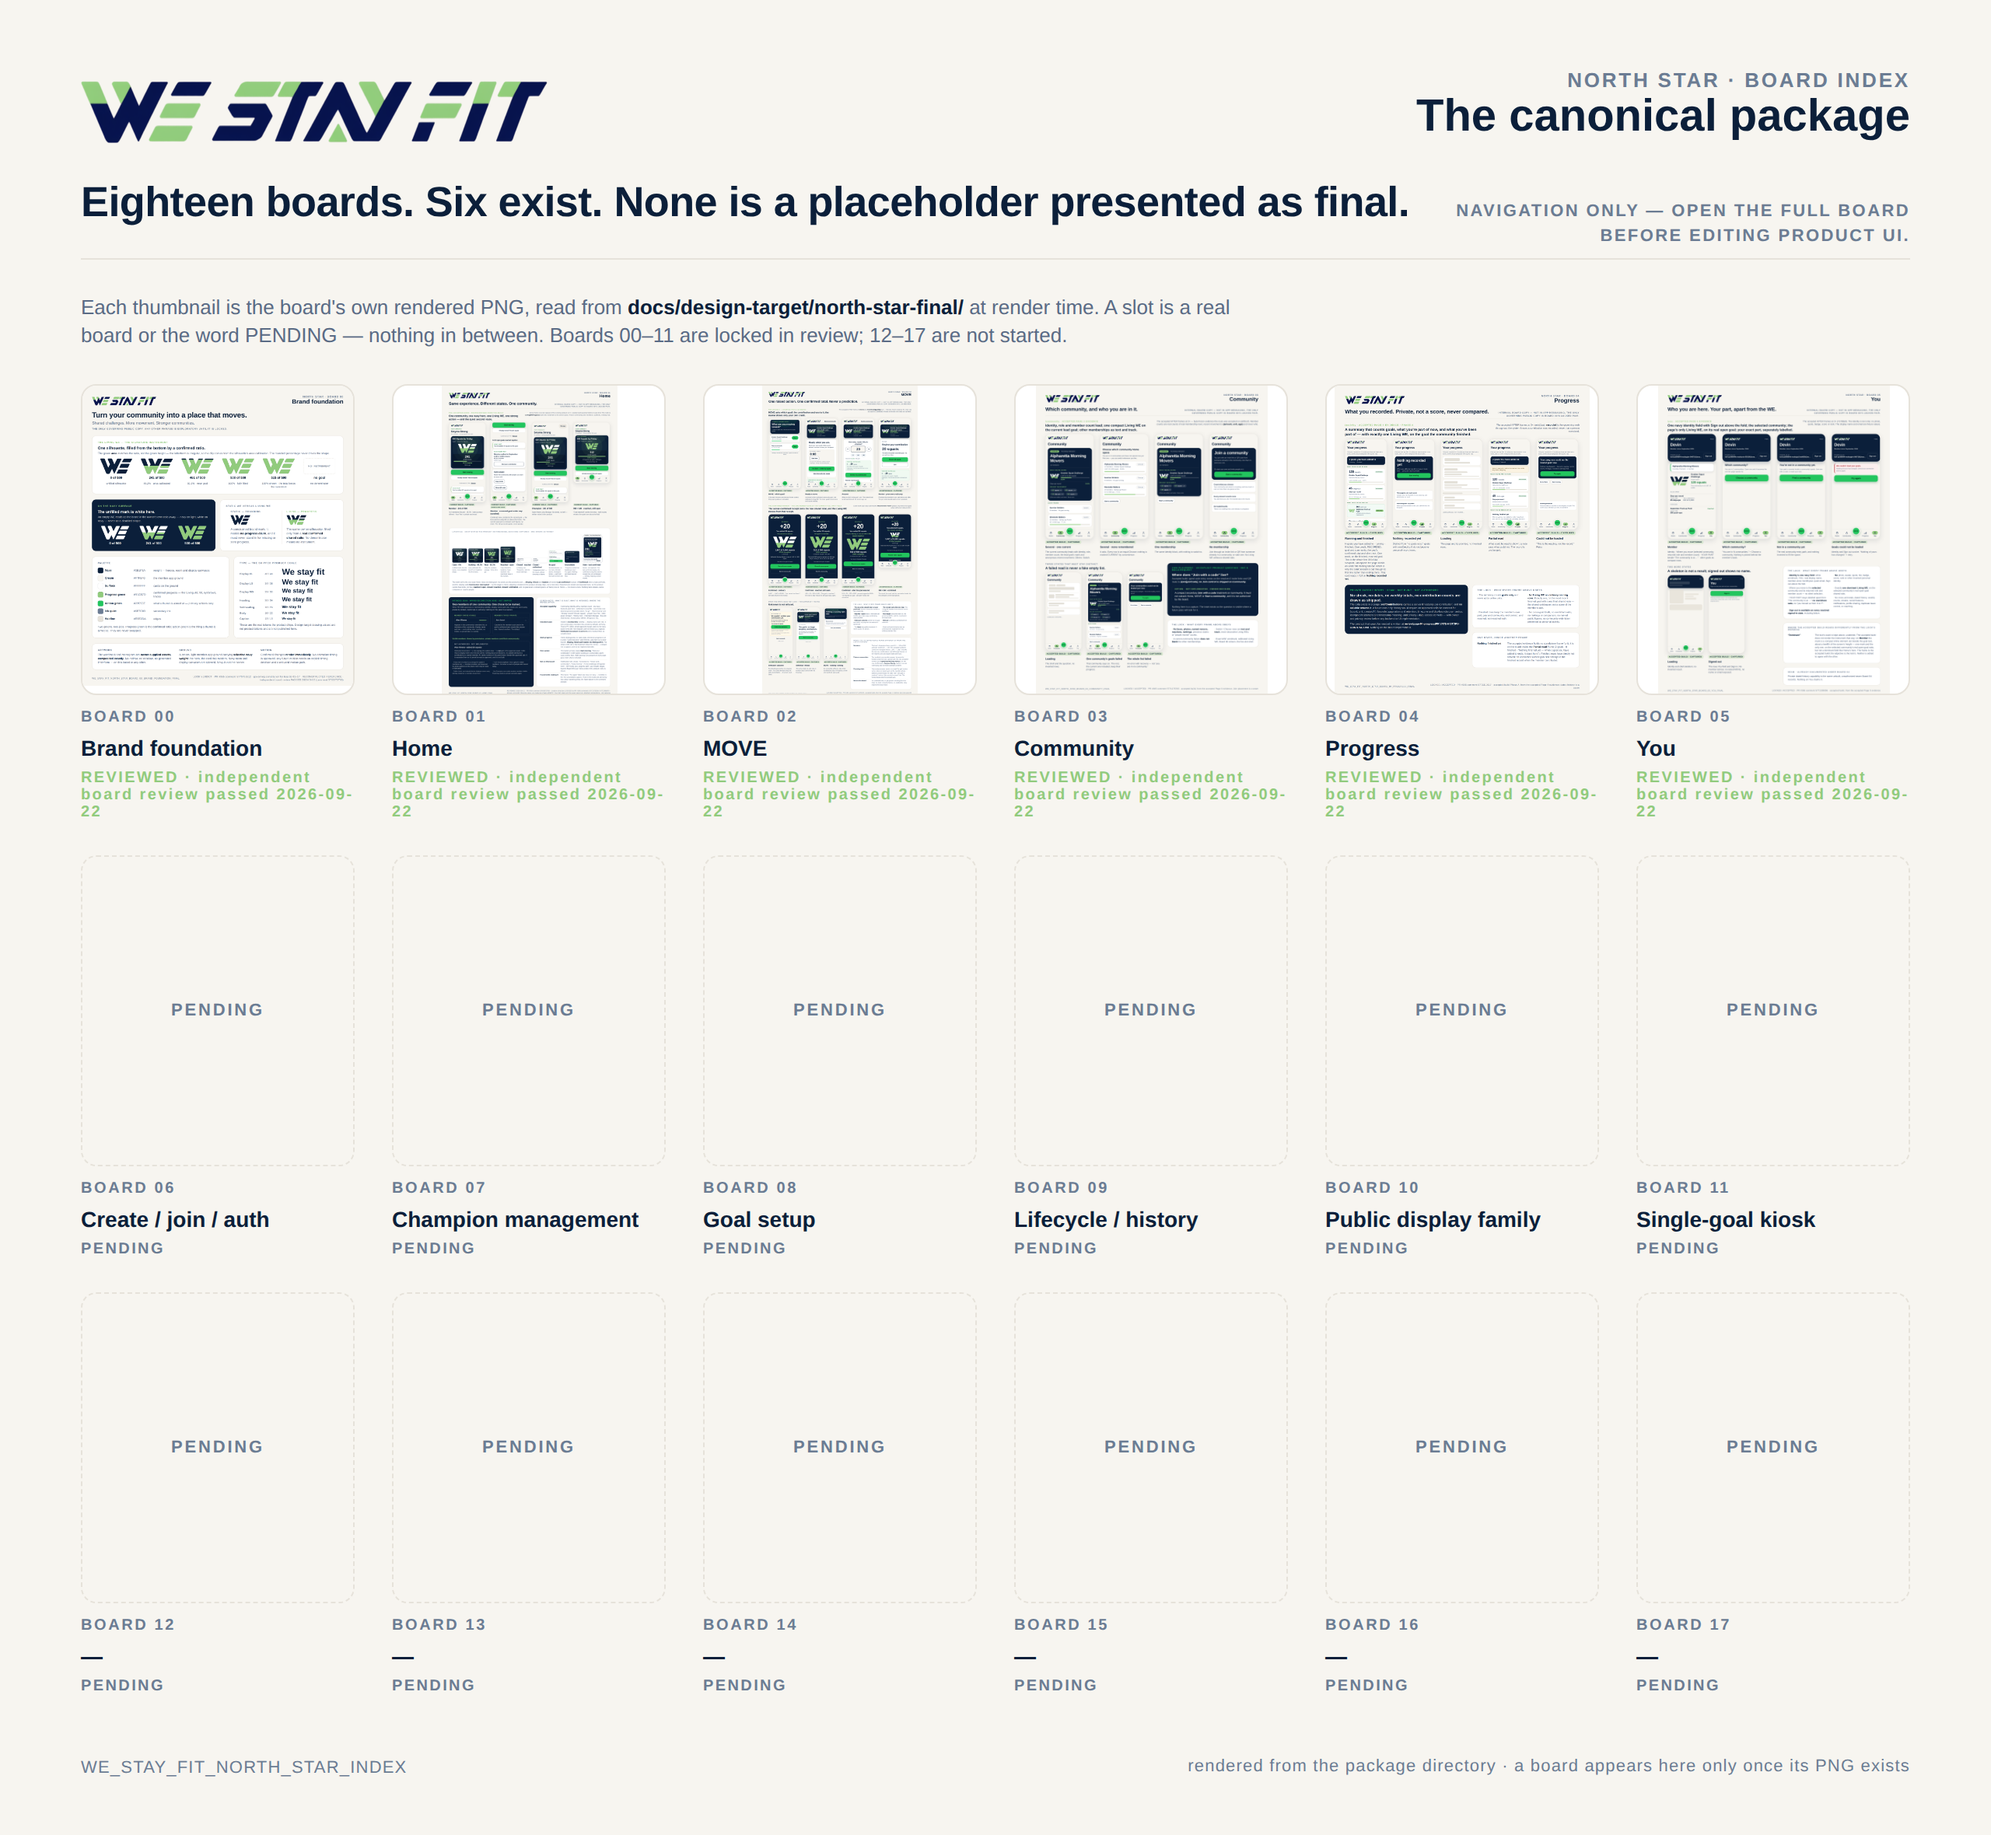
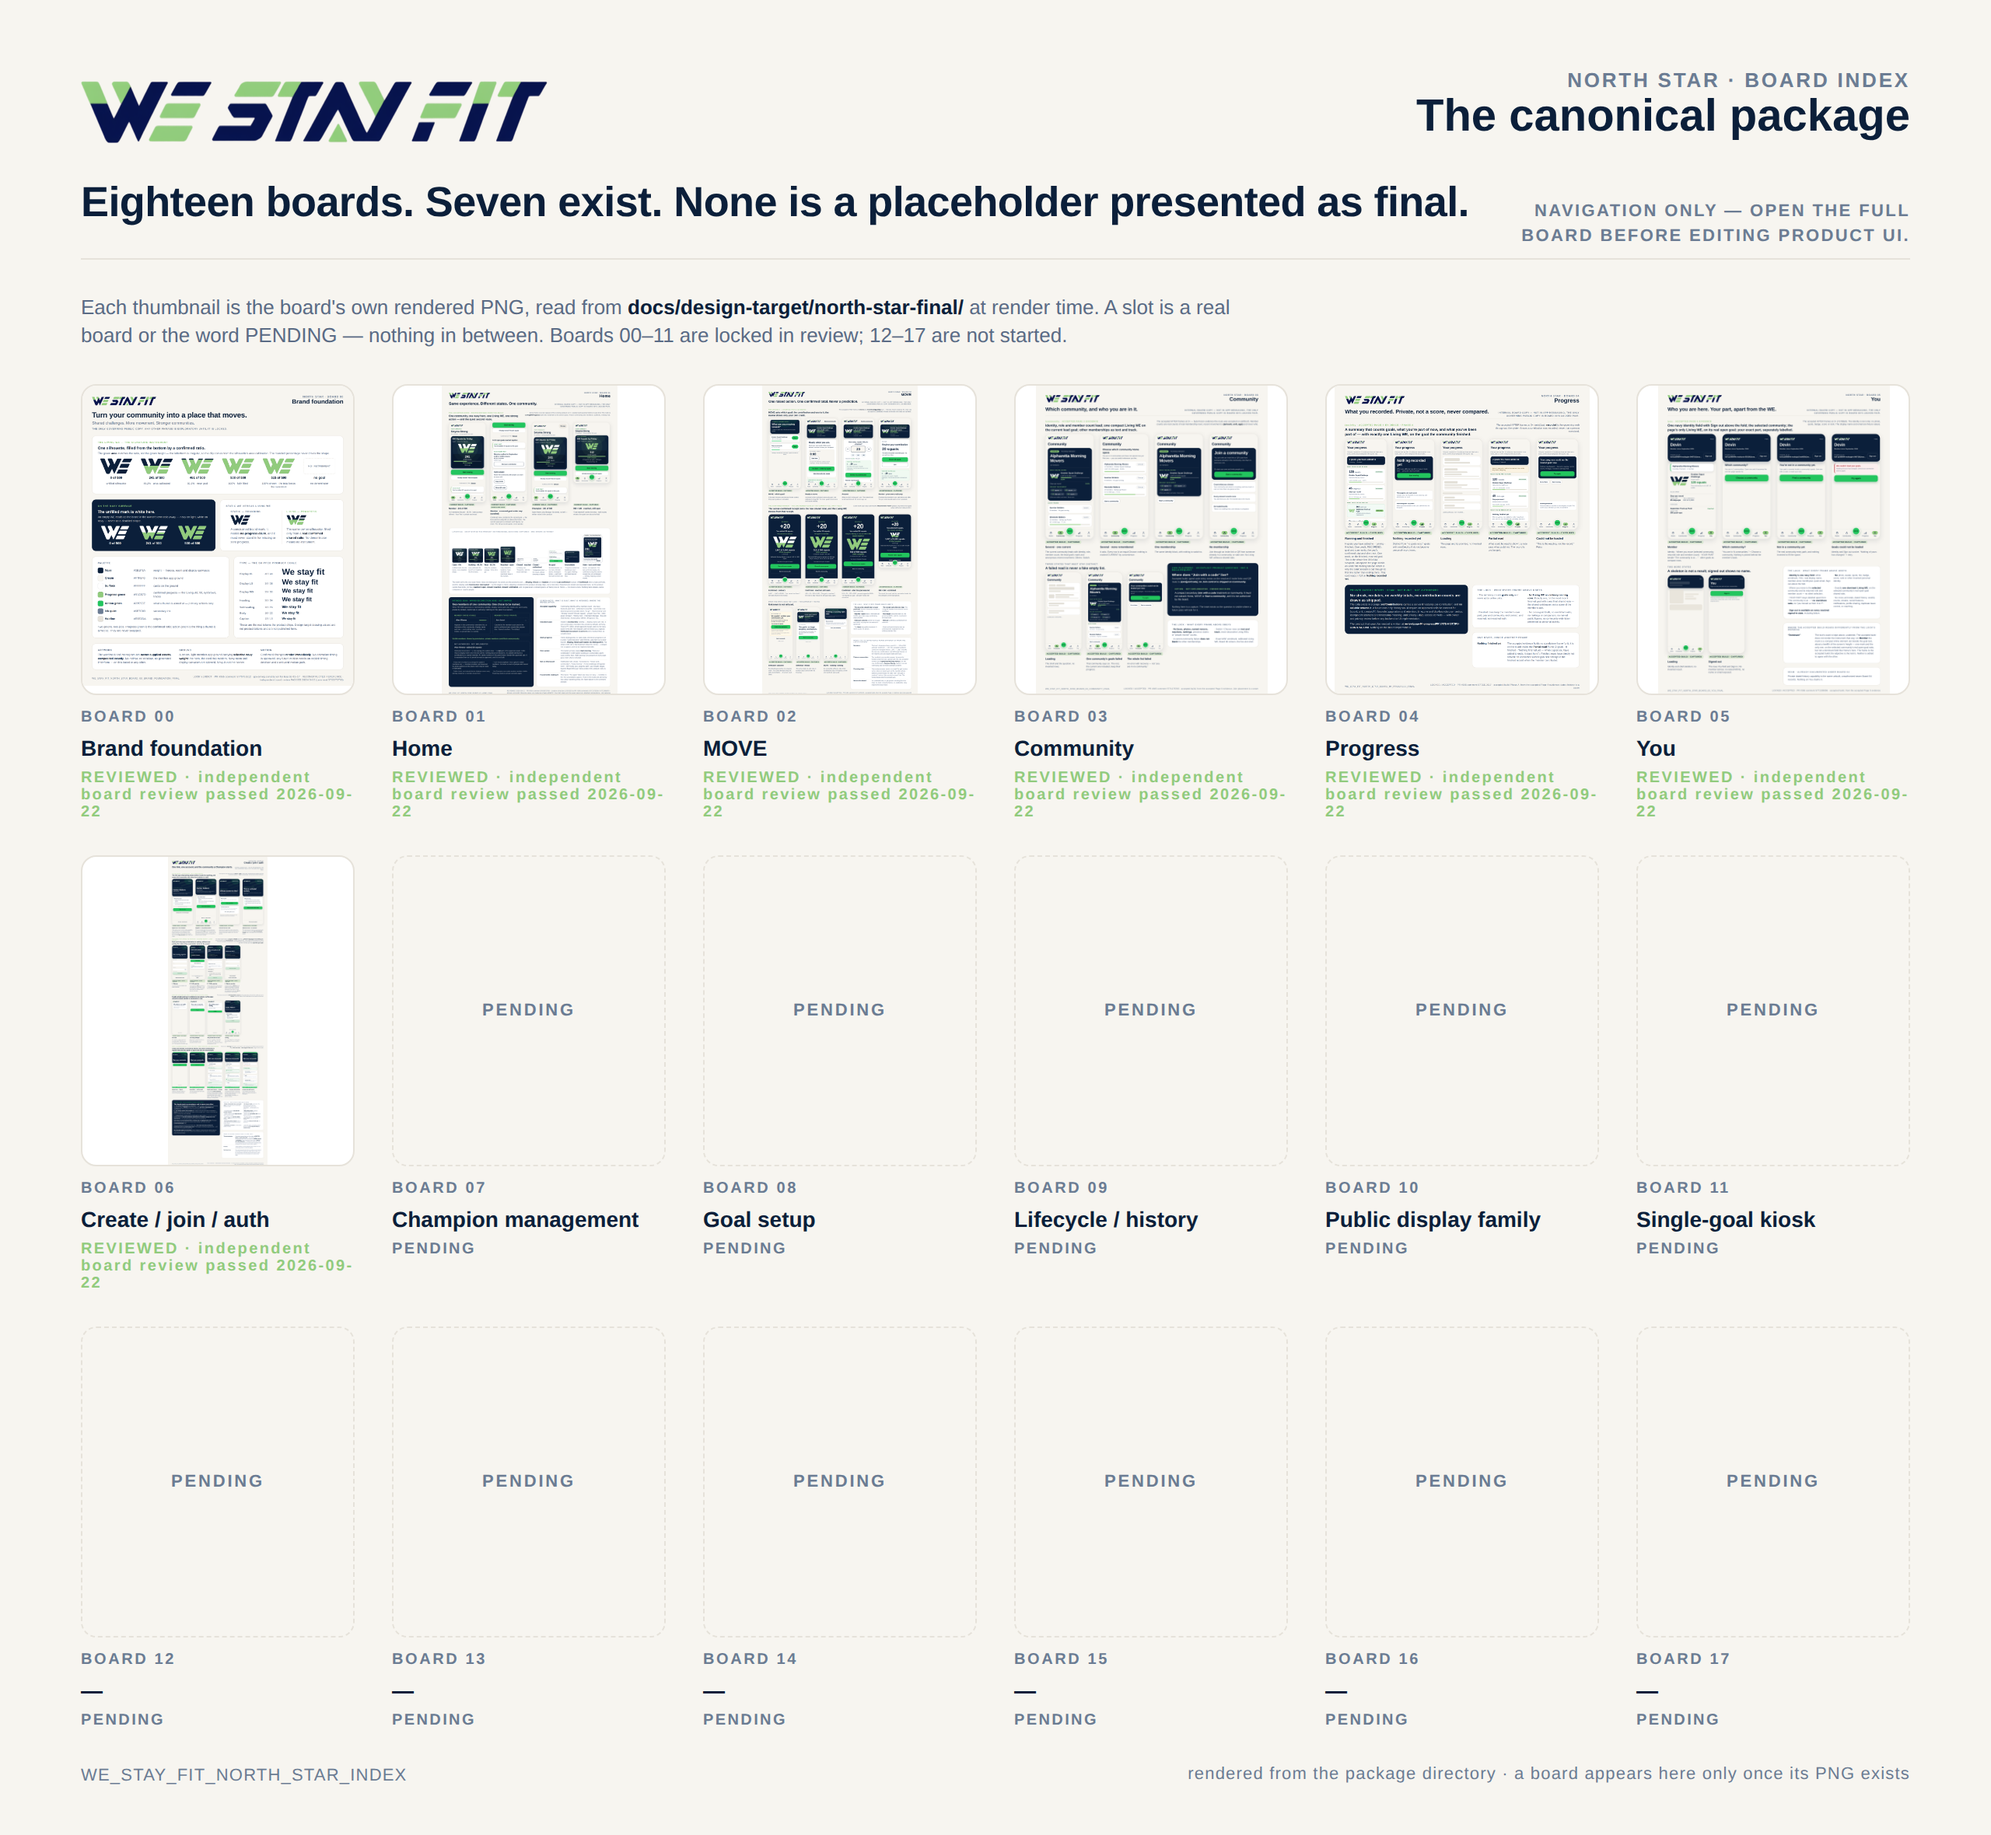
docs(westayfit): Board 06 REVIEWED — status 3 recorded from the Director's verdict 5784845039; 1x review copy cut; INDEX re-rendered with seven boards
Status-only follow-up to the #404 merge: the package README's row 06 reads
REVIEWED with the verdict, the board README carries the review section, the
review-copies/ set gains Board 06's 1x render, and INDEX.png (plus its 1x
copy) is re-rendered from the table so the seventh board appears with its
status word; the INDEX headline count follows. No board PNG changed: the
Board 06 bytes are exactly the reviewed bytes. Evidence guard intact.

Claude-Session: https://claude.ai/code/session_017cby7B21o4bFbnpsa1ciRV

diff --git a/docs/design-target/north-star-final/README.md b/docs/design-target/north-star-final/README.md
@@ -49,10 +49,12 @@ board gets treated as accepted when only its source screens were:
    checked it line by line against the lock verdict (recorded in the board's
    README).
 3. **Independent board review** — the Program Director has visually reviewed
-   the rendered board itself. **Boards 00–05 + INDEX have it as of
-   2026-09-22** — Program Director verdict `5783373780`, a pixel review of
-   the commit-pinned 1× review copies at `a912773`: *PASS as the canonical
-   reconstructed 00–05 package.* It clears this status for these
+   the rendered board itself. **Boards 00–06 + INDEX have it as of
+   2026-09-22** — Boards 00–05 + INDEX by Program Director verdict
+   `5783373780`, a pixel review of the commit-pinned 1× review copies at
+   `a912773` (*PASS as the canonical reconstructed 00–05 package*); Board 06
+   by Creative Director verdict `5784845039` on PR #404, a pixel review of the
+   exported original at `d6aba97`. It clears this status for these
    reconstructed artifacts only; it does not newly accept or stage the
    underlying app pages, and it authorises no deployment.
 
@@ -96,7 +98,7 @@ unaffected.
 | 03 | Community | **REVIEWED** · independent board review passed 2026-09-22 (`5783373780`) | `5771275765` | accepted build; Join placement seam | [`board-03/…BOARD_03_COMMUNITY_FINAL.png`](board-03/WE_STAY_FIT_NORTH_STAR_BOARD_03_COMMUNITY_FINAL.png) | `a912773` | Seven accepted Page 3 AFTER frames read in place; the Join placement is a labelled product question, not a screen. |
 | 04 | Progress | **REVIEWED** · independent board review passed 2026-09-22 (`5783373780`) | `5771310017` | accepted build (Phase A); dated history seam | [`board-04/…BOARD_04_PROGRESS_FINAL.png`](board-04/WE_STAY_FIT_NORTH_STAR_BOARD_04_PROGRESS_FINAL.png) | `a912773` | Five accepted Page 4 AFTER frames read in place. "Nothing finished yet" has no standalone accepted frame and is shown inside the partial-read frame, flagged. **2026-09-22 (W2, #399):** the `Running and finished` caption states the frame is the whole first viewport, uncropped, and why the card beneath is cut (P-2). No pixel changed. |
 | 05 | You | **REVIEWED** · independent board review passed 2026-09-22 (`5783373780`) | `5771338856` | accepted build | [`board-05/…BOARD_05_YOU_FINAL.png`](board-05/WE_STAY_FIT_NORTH_STAR_BOARD_05_YOU_FINAL.png) | `a912773` | Six accepted Page 5 AFTER frames read in place; every lock state has one. **2026-09-22 (W2, #399):** the board's own lead line no longer claims a *dominant* mark; the lock's quoted wording is unaltered and a differences panel records the gap (P-4). |
-| 06 | Create / join / auth | PENDING | `5771368550` | current build review | — | — | |
+| 06 | Create / join / auth | **REVIEWED** · independent board review passed 2026-09-22 (`5784845039`) | `5771368550` | current build review — identity accepted at `3562156` and captured later; `/join/[joinCode]` awaiting its page verdict; `/start-community` target redesign drawn, not implemented | [`board-06/…BOARD_06_CREATE_JOIN_AUTH_FINAL.png`](board-06/WE_STAY_FIT_NORTH_STAR_BOARD_06_CREATE_JOIN_AUTH_FINAL.png) | `d6aba97` | W2 (PR #404); reviewed from the exported original (artifact `10721560350`, blob `3f0b556`); the PNG's own footer still reads its submission label. |
 | 07 | Champion management | PENDING | `5771412585` | current Manage-sheet truth | — | — | Champion administration beyond the current sheet is an unbuilt seam. |
 | 08 | Goal setup | PENDING | `5771436211` | staging-only current-build truth | — | — | |
 | 09 | Lifecycle / history | PENDING | `5771469193` | lifecycle truth | — | — | |

diff --git a/docs/design-target/north-star-final/board-06/README.md b/docs/design-target/north-star-final/board-06/README.md
@@ -116,3 +116,16 @@ on these frames are synthetic. No real community, person or invite link appears.
 Every claim on the board is either a quotation from the lock or a property
 visible in the frame it captions. Where the lock did not settle something, it is
 not asserted.
+
+## Independent board review — PASSED 2026-09-22
+
+Creative Director verdict on PR #404, comment `5784845039`: a pixel review of
+the exported original at head `d6aba97` (run `35788582424`, artifact
+`10721560350`; ZIP sha256 `bbe72e9a…`; PNG git blob `3f0b556` matched to the
+PR head) — *accepted reconstructed Board 06 for the canonical DRAFT visual
+package.* Status 3 in the manifest is now REVIEWED. Status-only: the PNG
+bytes are exactly the reviewed bytes; its footer's "SELF-CHECKED · INDEPENDENT
+REVIEW PENDING" is historical submission labelling and was deliberately not
+re-rendered. The verdict accepts the reference artifact only: it grants no
+Join page acceptance, no new auth, visibility or legal policy, no main merge
+and no staging deployment.
